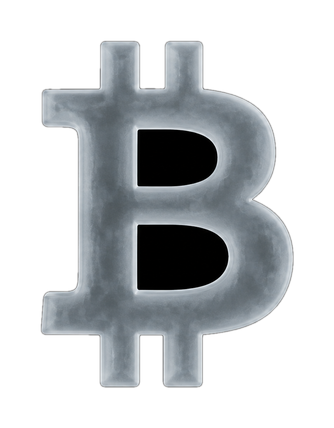
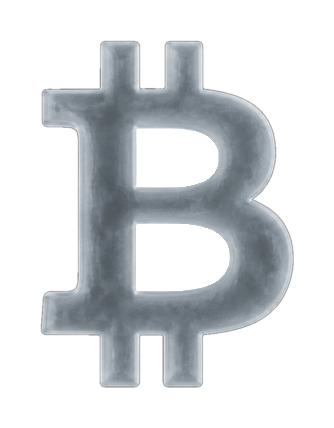
Owner-fixed coin art for BTC/USD, coin URLs v7
6 local screenshots removed. BTC/USD icons replaced by owner Rupert
(same filenames); v7 URLs force fresh fetch of the new bytes.

Changed region(s): [[0.3892, 0.5164, 0.6886, 0.6986], [0.3892, 0.3037, 0.6587, 0.4556]]

diff --git a/index.html b/index.html
@@ -73,7 +73,7 @@
   <link rel="preconnect" href="https://fonts.gstatic.com" crossorigin>
   <link href="https://fonts.googleapis.com/css2?family=Inter:wght@400;500;600;700&family=Space+Grotesk:wght@500;600;700&display=swap" rel="stylesheet">
 
-  <link rel="stylesheet" href="/styles.css?v=325">
+  <link rel="stylesheet" href="/styles.css?v=326">
 
   <script type="application/ld+json">
   {
@@ -201,8 +201,8 @@
         <p class="landing-alt"><button type="button" id="landing-restore" class="linklike">Have a backup file? Restore it</button></p>
         </div>
         <div class="landing-coins" aria-hidden="true">
-          <div class="coin-float coin-float-usd"><img class="coin coin-usd" src="/icons/coin-usd.png?v=6" alt="" draggable="false"></div>
-          <div class="coin-float coin-float-btc"><img class="coin coin-btc" src="/icons/coin-btc.png?v=6" alt="" draggable="false"></div>
+          <div class="coin-float coin-float-usd"><img class="coin coin-usd" src="/icons/coin-usd.png?v=7" alt="" draggable="false"></div>
+          <div class="coin-float coin-float-btc"><img class="coin coin-btc" src="/icons/coin-btc.png?v=7" alt="" draggable="false"></div>
           <div class="coin-float coin-float-eur"><img class="coin coin-eur" src="/icons/coin-eur.png?v=3" alt="" draggable="false"></div>
         </div>
         <ul class="landing-feats">
@@ -350,6 +350,6 @@
     </div>
   </div>
 
-  <script src="/app.js?v=308" defer></script>
+  <script src="/app.js?v=309" defer></script>
 </body>
 </html>
